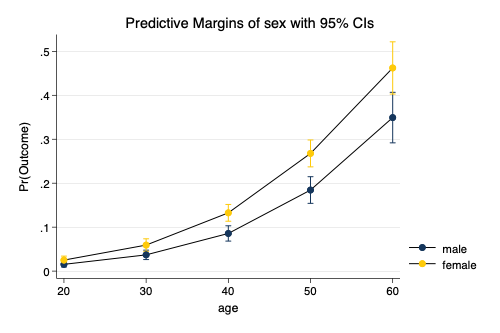
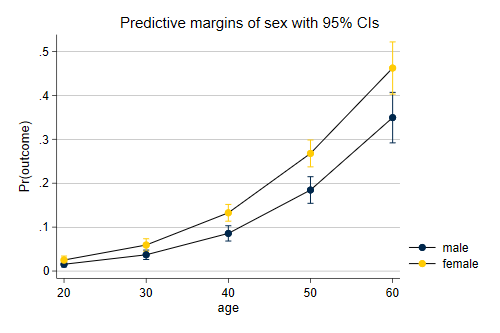
added more content on testing margins against each other; better CSS

diff --git a/categorical/predict-and-margins/predict-and-margins.html b/categorical/predict-and-margins/predict-and-margins.html
@@ -1,9 +1,16 @@
-<!DOCTYPE html>
-<html xmlns="http://www.w3.org/1999/xhtml" lang="" xml:lang="">
+<!DOCTYPE html PUBLIC "-//W3C//DTD XHTML 1.0 Transitional//EN" "http://www.w3.org/TR/xhtml1/DTD/xhtml1-transitional.dtd">
+<html xmlns="http://www.w3.org/1999/xhtml">
 <head>
+  <meta http-equiv="Content-Type" content="text/html; charset=utf-8" />
+  <meta http-equiv="Content-Style-Type" content="text/css" />
+  <meta name="generator" content="pandoc" />
+  <meta name="author" content="Andy Grogan-Kaylor" />
+  <title>predict and margins</title>
+  <style type="text/css">code{white-space: pre;}</style>
+  <script src="https://cdn.mathjax.org/mathjax/latest/MathJax.js?config=TeX-AMS-MML_HTMLorMML" type="text/javascript"></script>
 <style>
 /* CSS for Markstat 2.0 using Pandoc 2.0 */
-body{padding:14px 28px;}
+body{padding:14px 28px; max-width:45em;}
 body, table {font-family: Helvetica, Arial, Sans-serif; font-size: 14px;}
 h1, h2, h3, h4 {font-weight: normal; color: #3366cc}
 h1 {font-size: 200%;}
@@ -31,36 +38,23 @@ p.date, h3.date {text-align:center;margin-top:4px; margin-bottom:0}
 /* Tables*/
 table { margin:auto; border-collapse:collapse; }
 table caption { margin-bottom:1ex;}
-th, td { padding:4px 6px;}
-thead tr:first-child th {border-top:1px solid black; padding-top:6px}
-thead tr:last-child  th {padding-bottom:6px}
-tbody tr:first-child td {border-top:1px solid black; padding-top:6px}
-tbody tr:last-child  td {padding-bottom:6px;}
-table tbody:last-child tr:last-child td {border-bottom:1px solid black;}
+td {padding:0 0 0 0} /* override */
+table:not([class]) th { padding:4px 6px } 
+table:not([class]) td { padding:4px 6px } 
+table:not([class]) thead tr:first-child th {border-top:1px solid black; padding-top:6px}
+table:not([class]) thead tr:last-child  th {padding-bottom:6px}
+table:not([class]) tbody tr:first-child td {border-top:1px solid black; padding-top:6px}
+table:not([class]) tbody tr:last-child  td {padding-bottom:6px;}
+table:not([class]) tbody:last-child tr:last-child td {border-bottom:1px solid black;}
 </style>
-  <meta charset="utf-8" />
-  <meta name="generator" content="pandoc" />
-  <meta name="viewport" content="width=device-width, initial-scale=1.0, user-scalable=yes" />
-  <meta name="author" content="Andy Grogan-Kaylor" />
-  <title>predict and margins</title>
-  <style>
-      code{white-space: pre-wrap;}
-      span.smallcaps{font-variant: small-caps;}
-      span.underline{text-decoration: underline;}
-      div.column{display: inline-block; vertical-align: top; width: 50%;}
-  </style>
-  <script src="https://cdnjs.cloudflare.com/ajax/libs/mathjax/2.7.2/MathJax.js?config=TeX-AMS_CHTML-full" type="text/javascript"></script>
-  <!--[if lt IE 9]>
-    <script src="//cdnjs.cloudflare.com/ajax/libs/html5shiv/3.7.3/html5shiv-printshiv.min.js"></script>
-  <![endif]-->
 </head>
 <body>
-<header id="title-block-header">
+<div id="header">
 <h1 class="title"><code>predict</code> and <code>margins</code></h1>
-<p class="author">Andy Grogan-Kaylor</p>
-<p class="date">1 Mar 2021 08:10:11</p>
-</header>
-<style>h1 {color: #00274C;} h2 {color: #2F65A7;} blockquote {border-left: 5px solid #ffcb05; margin: 1.5em 10px; padding: 0.5em 10px;} code {color: red;}</style>
+<h2 class="author">Andy Grogan-Kaylor</h2>
+<h3 class="date">12 Nov 2021 10:42:36</h3>
+</div>
+<style>body {max-width: 90%;} h1 {color: #00274C;} h2 {color: #2F65A7;} blockquote {border-left: 5px solid #ffcb05; margin: 1.5em 10px; padding: 0.5em 10px;} code {color: red;}</style>
 <h1 id="background">Background</h1>
 <p>Odds ratios, or coefficients showing the association of the independent variables with the log odds, represent the most immediate output of a logistic regression. However, for a variety of reasons, it may make sense to not only report odds ratios, but also to investigate predicted probabilities.</p>
 <h1 id="get-the-data">Get The Data</h1>
@@ -77,12 +71,12 @@ table tbody:last-child tr:last-child td {border-bottom:1px solid black;}
 <pre class='stata'>. describe
 
 Contains data from http://www.stata-press.com/data/r15/margex.dta
-  obs:         3,000                          Artificial data for margins
- vars:            11                          27 Nov 2016 14:27
-──────────────────────────────────────────────────────────────────────────────────────────────────────
-              storage   display    value
-variable name   type    format     label      variable label
-──────────────────────────────────────────────────────────────────────────────────────────────────────
+ Observations:         3,000                  Artificial data for margins
+    Variables:            11                  27 Nov 2016 14:27
+────────────────────────────────────────────────────────────────────────────────────────────────────────────────────────────────────────────────────
+Variable      Storage   Display    Value
+    name         type    format    label      Variable label
+────────────────────────────────────────────────────────────────────────────────────────────────────────────────────────────────────────────────────
 y               float   %6.1f                 
 outcome         byte    %2.0f                 
 sex             byte    %6.0f      sexlbl     
@@ -94,7 +88,7 @@ yc              float   %6.1f
 treatment       byte    %2.0f                 
 agegroup        byte    %8.0g      agelab     
 arm             byte    %8.0g                 
-──────────────────────────────────────────────────────────────────────────────────────────────────────
+────────────────────────────────────────────────────────────────────────────────────────────────────────────────────────────────────────────────────
 Sorted by: group
 </pre>
 <h1 id="estimate-logistic-regression-logit">Estimate Logistic Regression (<code>logit</code>)</h1>
@@ -108,13 +102,13 @@ Iteration 3:   log likelihood =      -1068
 Iteration 4:   log likelihood = -1067.9941  
 Iteration 5:   log likelihood = -1067.9941  
 
-Logistic regression                             Number of obs     =      3,000
-                                                LR chi2(4)        =     596.16
-                                                Prob > chi2       =     0.0000
-Log likelihood = -1067.9941                     Pseudo R2         =     0.2182
+Logistic regression                                     Number of obs =  3,000
+                                                        LR chi2(4)    = 596.16
+                                                        Prob > chi2   = 0.0000
+Log likelihood = -1067.9941                             Pseudo R2     = 0.2182
 
 ─────────────┬────────────────────────────────────────────────────────────────
-     outcome │ Odds Ratio   Std. Err.      z    P>|z|     [95% Conf. Interval]
+     outcome │ Odds ratio   Std. err.      z    P>|z|     [95% conf. interval]
 ─────────────┼────────────────────────────────────────────────────────────────
          sex │
      female  │    1.64734    .221973     3.70   0.000      1.26499    2.145258
@@ -132,24 +126,19 @@ Note: _cons estimates baseline odds.
 <p>We use the <code>margins</code> command to estimate predicted probabilities at different values of <code>sex</code> and <code>age</code>.</p>
 <pre class='stata'>. margins sex, at(age = (20 30 40 50 60))
 
-Predictive margins                              Number of obs     =      3,000
-Model VCE    : OIM
+Predictive margins                                       Number of obs = 3,000
+Model VCE: OIM
 
-Expression   : Pr(outcome), predict()
-
-1._at        : age             =          20
-
-2._at        : age             =          30
-
-3._at        : age             =          40
-
-4._at        : age             =          50
-
-5._at        : age             =          60
+Expression: Pr(outcome), predict()
+1._at: age = 20
+2._at: age = 30
+3._at: age = 40
+4._at: age = 50
+5._at: age = 60
 
 ─────────────┬────────────────────────────────────────────────────────────────
              │            Delta-method
-             │     Margin   Std. Err.      z    P>|z|     [95% Conf. Interval]
+             │     Margin   std. err.      z    P>|z|     [95% conf. interval]
 ─────────────┼────────────────────────────────────────────────────────────────
      _at#sex │
      1#male  │   .0153934   .0031264     4.92   0.000     .0092657    .0215211
@@ -168,21 +157,21 @@ Expression   : Pr(outcome), predict()
 <p><code>margins</code> provides a lot of results, which can be difficult to understand. Therefore, we use <code>marginsplot</code> to <em>plot</em> these <code>margins</code> results. The key command is <code>marginsplot</code>, which could be used on its own. I have simply added the <a href="https://agrogan1.github.io/Stata/">Michigan graph scheme</a>, as well as some options to improve the graphic design of the plot.</p>
 <pre class='stata'>. marginsplot, scheme(michigan)
 
-  Variables that uniquely identify margins: age sex
+Variables that uniquely identify margins: age sex
 </pre>
 <pre class='stata'>. graph export mymarginsplot.png, width(500) replace
-(file /Users/agrogan/Desktop/newstuff/categorical/predict-and-margins/mymarginsplot.png written in PNG
->  format)
+file mymarginsplot.png saved as PNG format
 </pre>
-<figure>
-<img src="mymarginsplot.png" alt="" /><figcaption>Graph of Predicted Margins</figcaption>
-</figure>
+<div class="figure">
+<img src="mymarginsplot.png" alt="Graph of Predicted Margins" />
+<p class="caption">Graph of Predicted Margins</p>
+</div>
 <h1 id="predicted-probabilities-predict">Predicted Probabilities (<code>predict</code>)</h1>
-<p>Predicted probabilities are <em>each participant’s individual predicted probability</em> of experiencing depression based upon the independent variables included in the model. We often denote such predicted probabilities with <span class="math inline">\(\hat{y}\)</span></p>
+<p>Predicted probabilities are <em>each participant's individual predicted probability</em> of experiencing depression based upon the independent variables included in the model. We often denote such predicted probabilities with <span class="math inline">\(\hat{y}\)</span></p>
 <pre class='stata'>. predict yhat
 (option pr assumed; Pr(outcome))
 </pre>
-<p><code>yhat</code> is a variable in the data, just like any other variable, and we can tabulate and graph it.</p>
+<p><code>yhat</code> is a variable in the data, just like any other variable, and we can summarize and graph it.</p>
 <pre class='stata'>. twoway (lowess yhat age if sex == 0) ///
 > (lowess yhat age if sex == 1), ///
 > title("Predicted Probabilities of Outcome") ///
@@ -190,11 +179,88 @@ Expression   : Pr(outcome), predict()
 > scheme(michigan)
 </pre>
 <pre class='stata'>. graph export mytwoway.png, width(500) replace
-(file /Users/agrogan/Desktop/newstuff/categorical/predict-and-margins/mytwoway.png written in PNG form
-> at)
+file mytwoway.png saved as PNG format
 </pre>
-<figure>
-<img src="mytwoway.png" alt="" /><figcaption>Bar Graph of Predicted Probabilities</figcaption>
-</figure>
+<div class="figure">
+<img src="mytwoway.png" alt="Graph of Predicted Probabilities" />
+<p class="caption">Graph of Predicted Probabilities</p>
+</div>
+<h1 id="rerun-margins-posting-results">Rerun <code>margins</code>, Posting Results</h1>
+<p>We again employ the <code>margins</code> command, this time using the <code>post</code> option so that the results of the margins command are <em>posted</em> as an estimation result. This will allow us to employ the <code>test</code> command to statistically test different margins against each other.</p>
+<pre class='stata'>. margins sex, at(age = (20 30 40 50 60)) post
+
+Predictive margins                                       Number of obs = 3,000
+Model VCE: OIM
+
+Expression: Pr(outcome), predict()
+1._at: age = 20
+2._at: age = 30
+3._at: age = 40
+4._at: age = 50
+5._at: age = 60
+
+─────────────┬────────────────────────────────────────────────────────────────
+             │            Delta-method
+             │     Margin   std. err.      z    P>|z|     [95% conf. interval]
+─────────────┼────────────────────────────────────────────────────────────────
+     _at#sex │
+     1#male  │   .0153934   .0031264     4.92   0.000     .0092657    .0215211
+   1#female  │   .0250609   .0046143     5.43   0.000     .0160171    .0341048
+     2#male  │   .0369626   .0054588     6.77   0.000     .0262635    .0476616
+   2#female  │   .0592151   .0072711     8.14   0.000     .0449639    .0734663
+     3#male  │   .0856677   .0088815     9.65   0.000     .0682603    .1030751
+   3#female  │   .1325688   .0097333    13.62   0.000     .1134919    .1516458
+     4#male  │   .1844578    .015461    11.93   0.000     .1541547    .2147608
+   4#female  │   .2677423    .015609    17.15   0.000     .2371493    .2983353
+     5#male  │    .349279    .029326    11.91   0.000     .2918012    .4067569
+   5#female  │   .4622129   .0303129    15.25   0.000     .4028007    .5216251
+─────────────┴────────────────────────────────────────────────────────────────
+</pre>
+<h1 id="margins-with-coeflegend"><code>margins</code> with <code>coeflegend</code></h1>
+<p>We follow up by using the <code>margins</code> command with the <code>coeflegend</code> option to see the way in which Stata has labeled the different margins.</p>
+<pre class='stata'>. margins, coeflegend
+
+Predictive margins                                       Number of obs = 3,000
+Model VCE: OIM
+
+Expression: Pr(outcome), predict()
+1._at: age = 20
+2._at: age = 30
+3._at: age = 40
+4._at: age = 50
+5._at: age = 60
+
+─────────────┬────────────────────────────────────────────────────────────────
+             │     Margin   Legend
+─────────────┼────────────────────────────────────────────────────────────────
+     _at#sex │
+     1#male  │   .0153934  _b[1bn._at#0bn.sex]
+   1#female  │   .0250609  _b[1bn._at#1.sex]
+     2#male  │   .0369626  _b[2._at#0bn.sex]
+   2#female  │   .0592151  _b[2._at#1.sex]
+     3#male  │   .0856677  _b[3._at#0bn.sex]
+   3#female  │   .1325688  _b[3._at#1.sex]
+     4#male  │   .1844578  _b[4._at#0bn.sex]
+   4#female  │   .2677423  _b[4._at#1.sex]
+     5#male  │    .349279  _b[5._at#0bn.sex]
+   5#female  │   .4622129  _b[5._at#1.sex]
+─────────────┴────────────────────────────────────────────────────────────────
+</pre>
+<h1 id="testing-margins-against-each-other">Testing Margins Against Each Other</h1>
+<p>Lastly, we can test <em>margins</em> against eachother, e.g. the margins at age 20 for men and women, and again at age 50 for men and women.</p>
+<pre class='stata'>. test _b[1bn._at#0bn.sex] = _b[1bn._at#1.sex] // male and female at age 20
+
+ ( 1)  1bn._at#0bn.sex - 1bn._at#1.sex = 0
+
+           chi2(  1) =   10.62
+         Prob > chi2 =    0.0011
+</pre>
+<pre class='stata'>. test _b[4._at#0bn.sex] = _b[4._at#1.sex] // male and female at age 50
+
+ ( 1)  4._at#0bn.sex - 4._at#1.sex = 0
+
+           chi2(  1) =   13.85
+         Prob > chi2 =    0.0002
+</pre>
 </body>
 </html>
